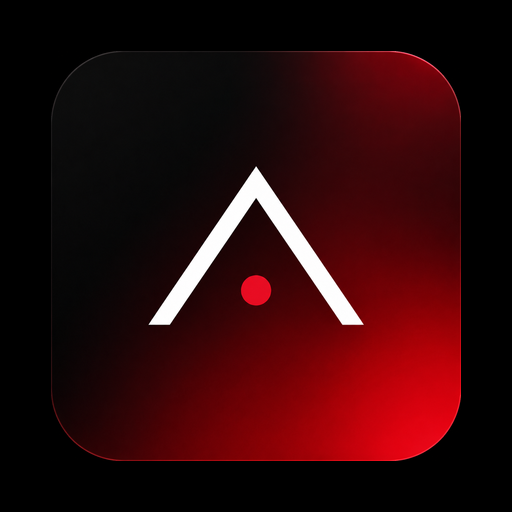
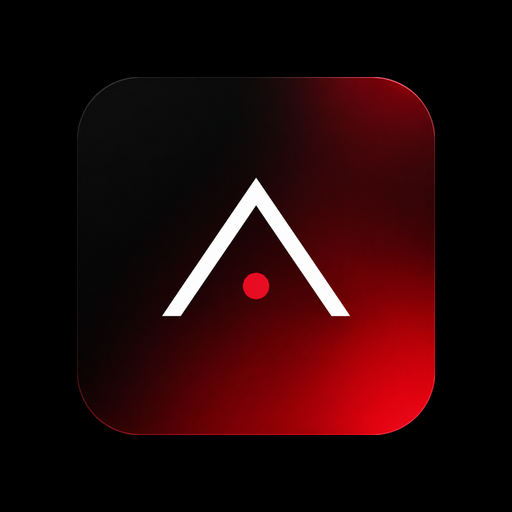
fix(layout+pwa): remove rolagem dupla no desktop, corrige icone/cores do PWA; v0.13.1
DESKTOP (Home.tsx)
- A pagina inicial forcava altura fixa via `h-[calc(100dvh-4rem)]` + `overflow-hidden`,
  com a lista de notas rolando por dentro (`flex-1 overflow-y-auto`) -- duas barras de
  rolagem competindo. O "-4rem" e um palpite fixo para o espaco ja ocupado (header,
  banner de aviso quando ativo); quando errado por causa de zoom, escala de tela
  (DPI) ou o banner aparecendo, o layout se comporta diferente em telas do mesmo
  tamanho e pode sobrar espaco sem rolagem nenhuma ou faltar espaco com rolagem
  dupla. Removidos os limites de altura/overflow: a pagina agora flui e rola como
  uma unidade so, em qualquer tela.

PWA NO ANDROID
- manifest theme_color/background_color estavam fixos em preto (#010101), mas claro
  e o tema padrao do app (ThemeProvider.tsx). A splash screen e a cor do sistema ao
  redor do app instalado ficavam pretas mesmo para quem esta no claro (a maioria),
  brigando com um app branco. Agora ambos usam #FFFFFF, batendo com o padrao.
- pwa-maskable-512.png tinha os cantos arredondados JA desenhados na propria
  imagem, sobre fundo preto -- violando a regra do icone "maskable" (o Android
  aplica a PROPRIA mascara por cima). Confirmado visualmente: simulando uma
  mascara circular no icone antigo, a borda superior do quadrado arredondado
  aparece cortada, com uma linha reta visivel dentro do circulo. Icone regenerado
  com o conteudo dentro da zona segura (70% do canvas) sobre fundo preto solido
[…]

diff --git a/src/pages/Home.tsx b/src/pages/Home.tsx
@@ -175,8 +175,8 @@ export function Home() {
 
 
   return (
-    <div className="px-5 safe-top md:h-[calc(100dvh-4rem)] md:flex md:flex-col md:overflow-hidden">
-      <header className="mb-4 md:shrink-0">
+    <div className="px-5 safe-top">
+      <header className="mb-4">
         {/* Mobile: logo ANA + "AI NOTES ADVISOR" embaixo (a esquerda); "by [Tailor]" no canto superior direito */}
         <div className="md:hidden flex items-start justify-between gap-3 mb-3">
           <div>
@@ -220,7 +220,7 @@ export function Home() {
 
       <button
         onClick={() => setAskOpen(true)}
-        className="card-featured md:shrink-0 w-full flex items-center gap-3 bg-surface-card border rounded-2xl px-4 py-2.5 mb-3 text-left transition-colors"
+        className="card-featured w-full flex items-center gap-3 bg-surface-card border rounded-2xl px-4 py-2.5 mb-3 text-left transition-colors"
       >
         <span className="grid place-items-center h-9 w-9 rounded-xl bg-brand-solid text-white shrink-0">
           <MessageSquare size={18} />
@@ -232,12 +232,10 @@ export function Home() {
         <ChevronRight size={18} className="text-content-muted shrink-0" />
       </button>
 
-      <div className="md:shrink-0">
-        <UpcomingEvents />
-      </div>
+      <UpcomingEvents />
 
       {/* Busca + filtro de ordenacao (icone a direita, dentro do proprio card) */}
-      <div className="relative mb-3 md:shrink-0" ref={sortRef}>
+      <div className="relative mb-3" ref={sortRef}>
         <Search size={18} className="absolute left-4 top-1/2 -translate-y-1/2 text-content-muted" />
         <input
           className="input pl-11 pr-12"
@@ -284,7 +282,7 @@ export function Home() {
       </div>
 
       {folderList.length > 0 && (
-        <div className="flex gap-2 overflow-x-auto pb-2 mb-2 -mx-1 px-1 md:shrink-0">
+        <div className="flex gap-2 overflow-x-auto pb-2 mb-2 -mx-1 px-1">
           <Chip active={folderFilter === 'all'} onClick={() => setFolderFilter('all')}>
             {t('home.all')}
           </Chip>
@@ -300,7 +298,7 @@ export function Home() {
       )}
 
       {notes && filtered.length > 0 && (
-        <div className="flex items-center justify-between mb-2 px-1 md:shrink-0">
+        <div className="flex items-center justify-between mb-2 px-1">
           {/* A ordenacao vive no icone de filtro dentro da busca. */}
           <span className="text-xs text-content-muted">
             {filtered.length} {filtered.length === 1 ? t('home.noteOne') : t('home.noteMany')}
@@ -308,7 +306,7 @@ export function Home() {
         </div>
       )}
 
-      <div className="md:flex-1 md:min-h-0 md:overflow-y-auto md:-mx-1 md:px-1 pb-2">
+      <div className="pb-2">
       {notes === null ? (
         <ul className="grid sm:grid-cols-2 lg:grid-cols-3 xl:grid-cols-4 gap-3 mt-2">
           {Array.from({ length: 4 }).map((_, i) => (

diff --git a/vite.config.ts b/vite.config.ts
@@ -19,8 +19,12 @@ export default defineConfig({
         name: 'Tailor Executive AI Notes',
         short_name: 'Tailor Notes',
         description: 'IA de anotacoes, transcricoes e analise de reunioes',
-        theme_color: '#010101',
-        background_color: '#010101',
+        // Claro e o tema padrao do app (ThemeProvider.tsx): a splash screen do PWA instalado
+        // usa ESTA cor fixa (nao a dinamica do <meta theme-color>, que so existe depois que o
+        // JS roda). Deixar preto aqui fazia todo mundo no tema claro (a maioria) ver um flash
+        // preto e a barra de status do Android preta brigando com um app branco.
+        theme_color: '#FFFFFF',
+        background_color: '#FFFFFF',
         display: 'standalone',
         orientation: 'portrait',
         lang: 'pt-BR',

diff --git a/src/lib/version.ts b/src/lib/version.ts
@@ -1,3 +1,3 @@
 /** Fonte unica da versao do app. Atualize aqui a cada deploy. */
-export const APP_VERSION = 'v0.13.0'
+export const APP_VERSION = 'v0.13.1'
 export const APP_NAME = 'ANA by Tailor'